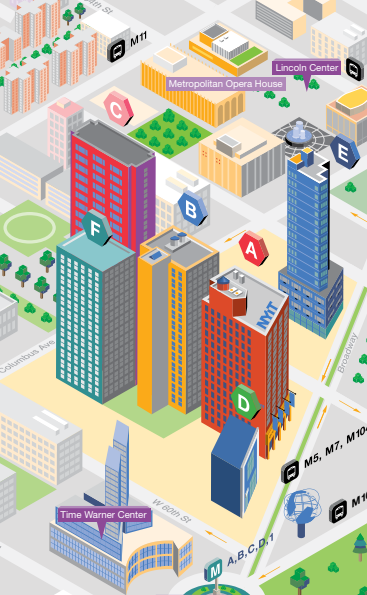
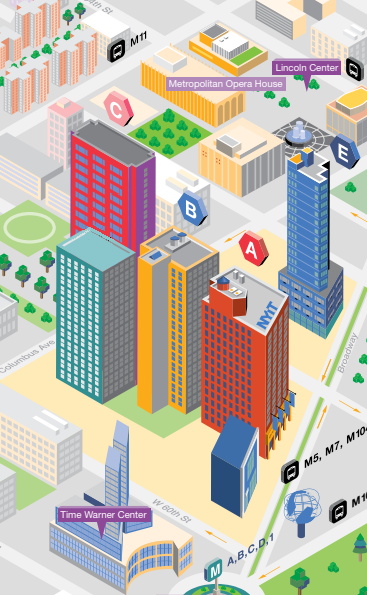
Add files via upload
上传更新了map2.png （删除了多余的几个字母牌子）
上传更新了style.css中#select1 2 3 的位置

Changed region(s): [[0.2098, 0.3328, 0.3297, 0.4235], [0.5995, 0.6353, 0.7193, 0.7261]]

diff --git a/public/style.css b/public/style.css
@@ -88,26 +88,26 @@ section, footer, header, aside, nav{
 
 #select1{
 	position: absolute;
-	width:40px;
-	height: 40px;
-	top:230px;
-	left:235px;
+	width: 85px;
+	height: 160px;
+	top: 270px;
+	left: 205px;
 }
 
 #select2{
 	position: absolute;
-	width:40px;
-	height: 40px;
-	top:190px;
-	left:173px;
+	width: 74px;
+	height: 175px;
+	top: 241px;
+	left: 133px;
 }
 
 #select3{
 	position: absolute;
-	width:40px;
-	height: 40px;
-	top:90px;
-	left:100px;
+	width: 85px;
+	height: 120px;
+	top: 120px;
+	left: 70px;
 }
 
 nav{
